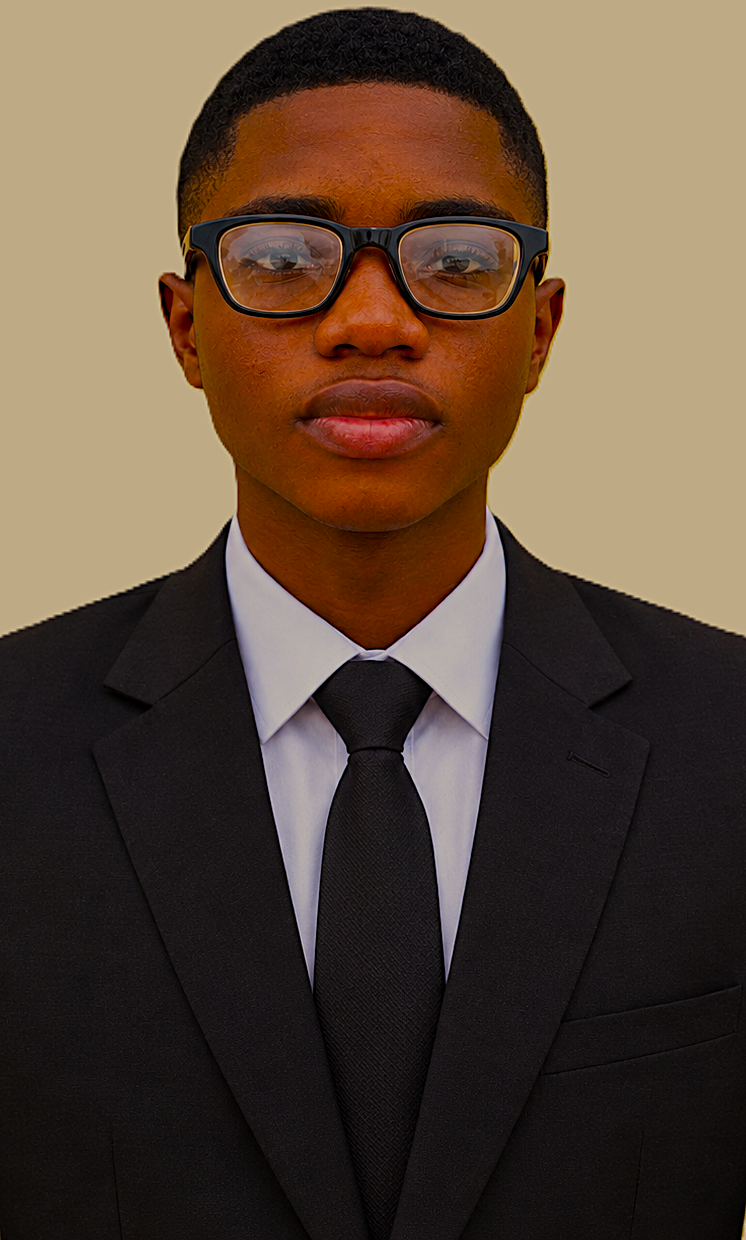
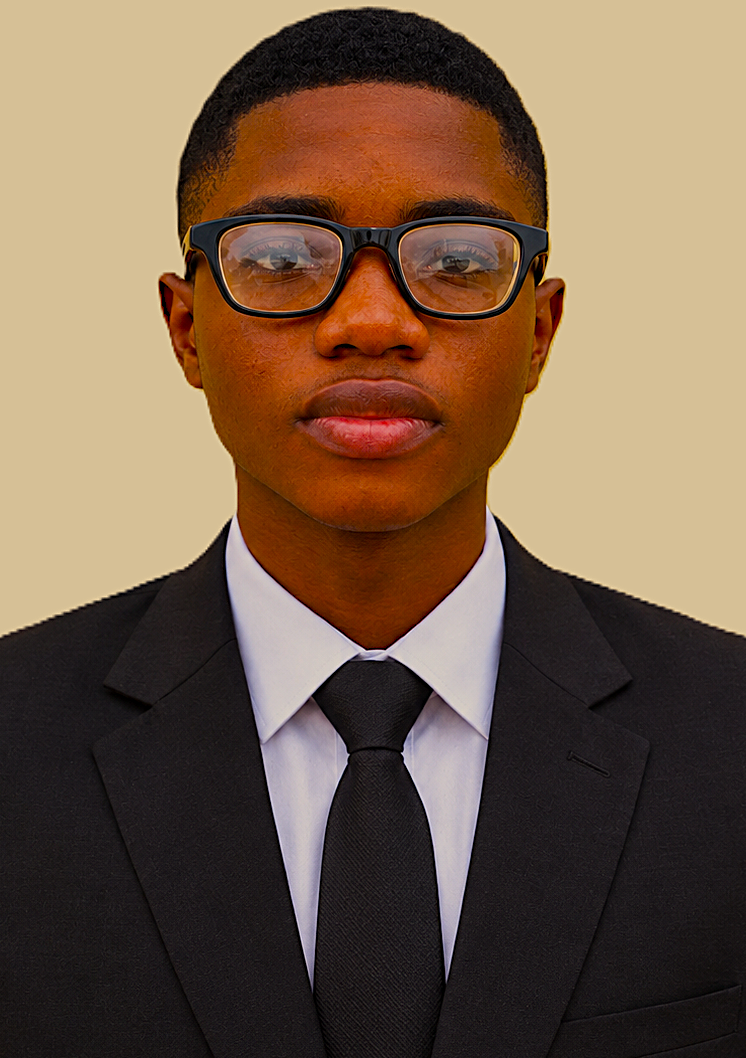
accessibility issues fixed

diff --git a/index.html b/index.html
@@ -191,7 +191,8 @@
     <section id="portfolio">
         <br><br><br>
         <div class="text-primary text-center make">My projects</div><br><br>
-        <div class="card mb-3 bg-primary">
+        <div class="card mb-3 bg-primary">\
+            <a href="https://netflix-phi-weld.vercel.app">
             <img src="./Images/netfilx.portfolio.png" class="card-img-top" alt="Loading...">
             <div class="card-body">
                 <h5 class="card-title">Netflix</h5>
@@ -199,14 +200,17 @@
                 <p class="card-text"><small class="text-body-secondary"><a class="a"
                             href="https://netflix-phi-weld.vercel.app">Click to visit</a></small></p>
             </div>
+            </a>
         </div>
         <div class="card mb-3 bg-primary">
+            <a href="https://peaceful-orpin.vercel.app">
             <img src="./Images/Car.portfolio.png" class="card-img-bottom" alt="Loading...">
             <div class="card-body">
                 <h5 class="card-title">CSS</h5>
                 <p class="card-text">A responsive playful creation to flex the usage of CSS in web designing made with only HTML and CSS</p>
                 <p class="card-text"><small class="text-body-secondary"><a href="https://peaceful-orpin.vercel.app/">Click to visit</a></small></p>
             </div>
+            </a>
         </div>
     </section>
     <section id="contact">

diff --git a/index.css b/index.css
@@ -14,6 +14,8 @@ body{
     background: black;
     color: white;
     overflow-x: hidden;
+    padding-right: .5rem;
+    padding-left: .5rem;
 }
 
 .picture{                   
